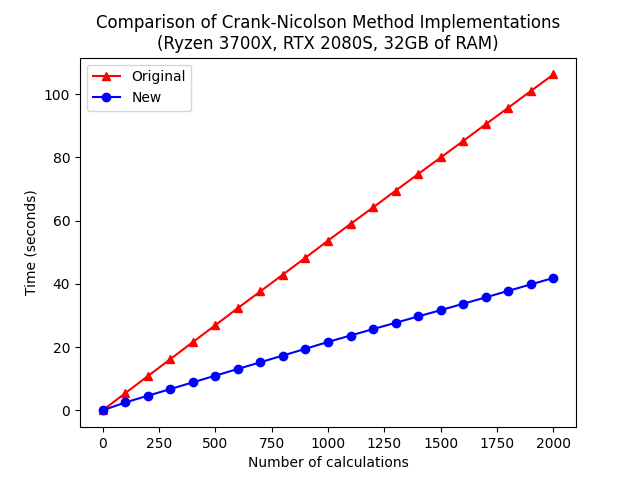
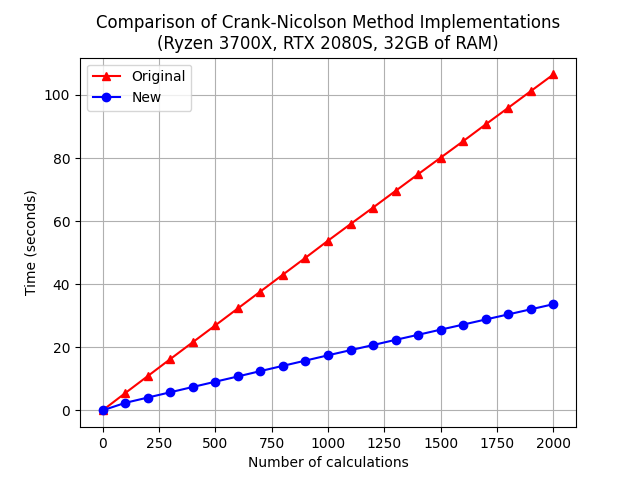
minor Numba adjustments

diff --git a/new_crank.py b/new_crank.py
@@ -2,12 +2,12 @@ from numpy import *
 from math import *
 import matplotlib.pyplot as plt
 import time
-from numba import jit, f8
+from numba import jit
 import warnings
 warnings.filterwarnings("ignore")
 
-#JAY -- using Numba, just specify the type of the arguments and the return type and it stores the function in a compiled binary that dramatically speeds up runtime
-@jit(f8[:] (f8[:],f8[:],f8[:],f8[:] ))
+#JAY -- using Numba, the JIT compiler stores the function in a compiled binary that dramatically speeds up runtime
+@jit
 def solve_tridiagonal(a, b, c, solve_for):
     '''
     JAY -- a fast function for solving tridiagonal matrices. 

diff --git a/tester.py b/tester.py
@@ -53,6 +53,7 @@ def test_crank_plot():
     plt.xlabel("Number of calculations")
     plt.ylabel("Time (seconds)")
     plt.show() 
+    plt.grid()
     plt.savefig("crank_plot.png")
 
 if __name__ == "__main__":
